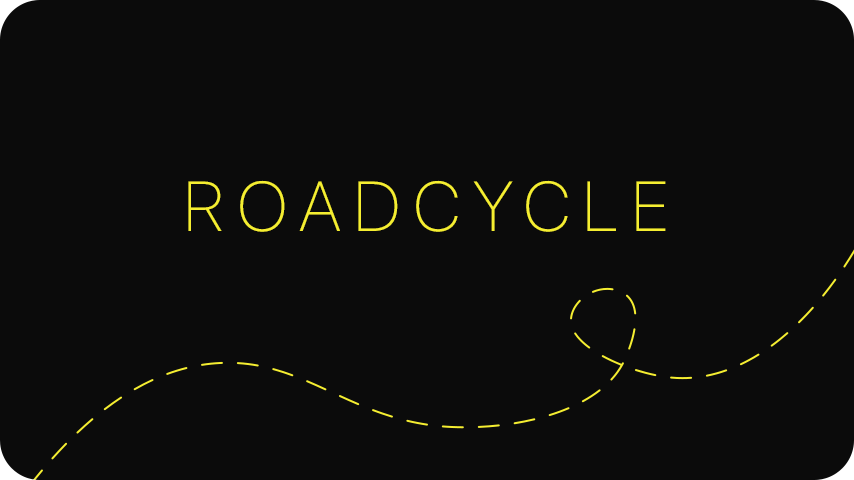
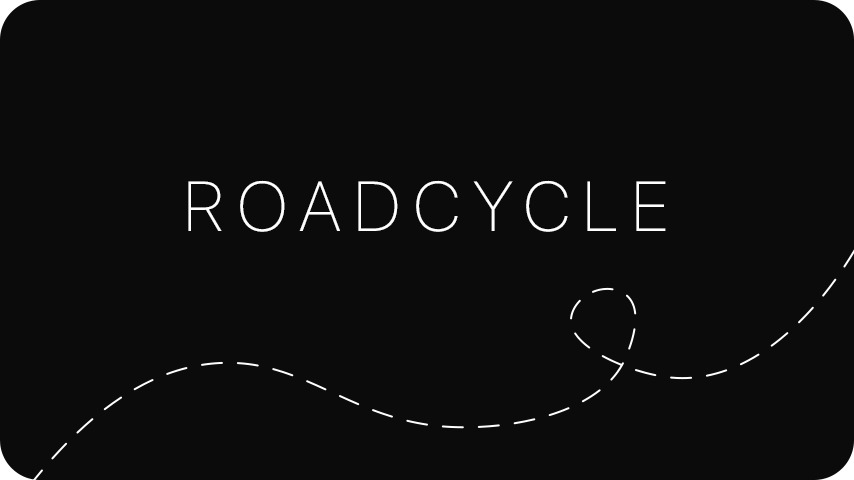
RoadCycle v0.9
1) Added design
2) Dark UI :100:

Plans: Installer !

diff --git a/main.cpp b/main.cpp
@@ -4,12 +4,45 @@
 #include <QSplashScreen>
 #include <QTimer>
 #include <QPixmap>
+#include <QStyleFactory>
+#include <QTableView>
+#include <QSettings>
 
 int main(int argc, char *argv[])
 {
     QApplication::setAttribute(Qt::AA_EnableHighDpiScaling); // resolution adaptation
 
     QApplication a(argc, argv);
+
+    // setup dark theme)))
+    QSettings settings("HKEY_CURRENT_USER\\Software\\Microsoft\\Windows\\CurrentVersion\\Themes\\Personalize",QSettings::NativeFormat);
+        if(settings.value("AppsUseLightTheme")==0){
+            qApp->setStyle(QStyleFactory::create("Fusion"));
+            QPalette darkPalette;
+            QColor darkColor = QColor(45,45,45);
+            QColor disabledColor = QColor(127,127,127);
+            darkPalette.setColor(QPalette::Window, darkColor);
+            darkPalette.setColor(QPalette::WindowText, Qt::white);
+            darkPalette.setColor(QPalette::Base, QColor(18,18,18));
+            darkPalette.setColor(QPalette::AlternateBase, darkColor);
+            darkPalette.setColor(QPalette::ToolTipBase, Qt::white);
+            darkPalette.setColor(QPalette::ToolTipText, Qt::white);
+            darkPalette.setColor(QPalette::Text, Qt::white);
+            darkPalette.setColor(QPalette::Disabled, QPalette::Text, disabledColor);
+            darkPalette.setColor(QPalette::Button, darkColor);
+            darkPalette.setColor(QPalette::ButtonText, Qt::white);
+            darkPalette.setColor(QPalette::Disabled, QPalette::ButtonText, disabledColor);
+            darkPalette.setColor(QPalette::BrightText, Qt::red);
+            darkPalette.setColor(QPalette::Link, QColor(42, 130, 218));
+
+            darkPalette.setColor(QPalette::Highlight, QColor(42, 130, 218));
+            darkPalette.setColor(QPalette::HighlightedText, Qt::black);
+            darkPalette.setColor(QPalette::Disabled, QPalette::HighlightedText, disabledColor);
+
+            qApp->setPalette(darkPalette);
+
+            qApp->setStyleSheet("QToolTip { color: #ffffff; background-color: #2a82da; border: 1px solid white; }");
+        }
 
     //creating loading screen
     QSplashScreen *loading_screen = new QSplashScreen;

diff --git a/mainwindow.h b/mainwindow.h
@@ -79,7 +79,12 @@ private:
         {"P48","регіональна","159.9","2","ні","ні"},
         {"H22","місцева","155.9","2","ні","ні"},
         {"M06","обласна","888.8","3","ні","ні"},
-        {"E40","регіональна","8500 ","6","так","так"}
+        {"E40","регіональна","8500 ","6","так","так"},
+        {"K32","регіональна","8500 ","4","так","ні"},
+        {"G84","державна","8500 ","3","так","так"},
+        {"L18","регіональна","565.4","6","так","ні"},
+        {"N13","регіональна","664.8","6","так","ні"}
+
      };
 
 };

diff --git a/mainwindow.cpp b/mainwindow.cpp
@@ -14,6 +14,7 @@ MainWindow::MainWindow(QWidget *parent)
     mkdir("Data"); //create directory for files
     fill_table_from_txt();
     ui->RoadData->horizontalHeader()->setSectionResizeMode(QHeaderView::Stretch); // make table look nice)
+
 }
 
 MainWindow::~MainWindow()
